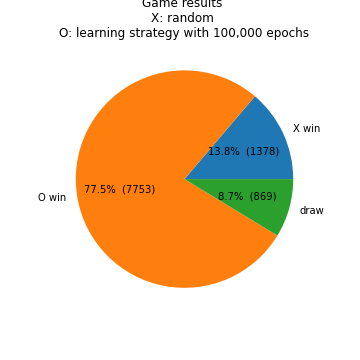
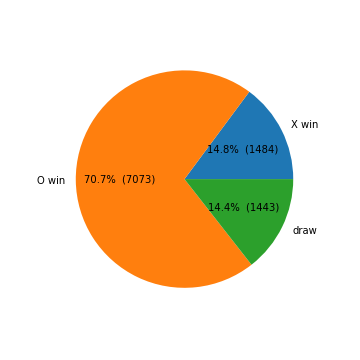
no longer using complicated stats

diff --git a/strategy.py b/strategy.py
@@ -81,7 +81,7 @@ class LearningStrategy(Strategy):
         if learning and self.p.predictive and self.last_state is not None:
             self.last_state.update_max_q_values_of_next_states(state, self.last_action)
 
-        if learning:
+        if learning and random.random() < self.p.random_action_rate:
             action = state.explore(explain=explain)
         else:
             action = state.exploit(explain=explain)
@@ -113,57 +113,25 @@ class State:
         self.total_hits = 0
         self.num_hits = dict([(action, 0) for action in self.allowed_actions])
         self.history = []
-        self.past_learned_values = dict([(action, []) for action in self.allowed_actions])
         self.last_decision_type = None
 
     def explore(self, explain=False):
-        """
-        Choose an action. If the number of hits on any of the possible actions is less than
-        p.min_hits_before_using_stats, a random action is chosen. Else, choose an action based on q-values
-        """
+        """Choose an action at random"""
 
-        if any([hit < self.p.min_hits_before_using_stats for hit in self.num_hits.values()]):
-            action = random.choice(list(self.actions.keys()))
-            if explain:
-                print('Exploring the state:')
-                print(self.pure_state)
-                print('Not enough hits, choosing at random')
-                print('Action to take: {}'.format(action))
-
-        elif random.random() < self.p.random_action_rate:
-            action = random.choice(list(self.actions.keys()))
-            if explain:
-                print('Exploring the state:')
-                print(self.pure_state)
-                print('Enough hits but choosing at random')
-                print('Action to take: {}'.format(action))
-
-        else:
-            # Take a random sample of the past learned q-values for each action. The action corresponding to the
-            # highest sample is chosen. This way, actions with higher q-values get chosen preferentially.
-            random_choices_from_past = dict(
-                [(action, random.choice(past_values[-self.p.max_hits_used_in_stats:])) for action, past_values in
-                 self.past_learned_values.items()])
-            action = max(random_choices_from_past, key=random_choices_from_past.get)
-
-            if explain:
-                print('Exploring the state:')
-                print(self.pure_state)
-                print('Actions: {}'.format(self.actions))
-                print('Hits: {}'.format(self.num_hits))
-                print('Random samples chosen: {}'.format(random_choices_from_past))
-                print('Action to take: {}'.format(action))
-                plt.hist([self.past_learned_values[action_][-self.p.max_hits_used_in_stats:] for action_ in
-                          self.allowed_actions], label=self.allowed_actions)
-                plt.legend()
-                plt.show()
-
+        action = random.choice(list(self.actions.keys()))
         self.last_decision_type = 'explore'
+
+        if explain:
+            print('Exploring the state:')
+            print(self.pure_state)
+            print('Choosing at random')
+            print('Action to take: {}'.format(action))
 
         return action
 
     def exploit(self, explain=False):
         """Choose the action with the highest q-value"""
+
         action = max(self.actions, key=self.actions.get)
         self.last_decision_type = 'exploit'
 
@@ -200,8 +168,6 @@ class State:
                                       }))
         if self.p.predictive:
             self.history[-1]['max_q_of_next_state'] = self.max_q_values_of_next_states
-
-        self.past_learned_values[action].append(learned_value)
 
     def update_max_q_values_of_next_states(self, next_state, last_action):
         learned_value = max(next_state.actions.values())

diff --git a/n_and_c_params.py b/n_and_c_params.py
@@ -1,37 +1,27 @@
 from params import Params, StrategyParams
 
 
-p = Params(num_epochs=100000,
+p = Params(num_epochs=10000,
            explain=False,
            learning=True)
 
 # Strategy for x
-sp_learning_x = StrategyParams(start_q=0.3067,
-                               random_action_rate=0.3,
+sp_learning_x = StrategyParams(start_q=0,
+                               random_action_rate=0.4,
                                discount_rate=0.7,
-                               min_hits_before_using_stats=20,
-                               max_hits_used_in_stats=100,
                                next_state_is_predictable=False,
                                predictive=True)
 
 # Strategy for o
-sp_learning_o = StrategyParams(start_q=-0.3067,
-                               random_action_rate=0.3,
+sp_learning_o = StrategyParams(start_q=0,
+                               random_action_rate=0.4,
                                discount_rate=0.7,
-                               min_hits_before_using_stats=20,
-                               max_hits_used_in_stats=100,
                                next_state_is_predictable=False,
                                predictive=True)
-# Start_q has been chosen as such because even with a random strategy, x wins more often than o.
-# If start_q is set at 0 for both players, moves that are good at the start of learning when the play is random (e.g.
-# placing first x in center) get over-valued and other potentially good moves are neglected.
-
 
 # A strategy that only chooses random actions.
 sp_random = StrategyParams(start_q=0,
                            random_action_rate=1,
                            discount_rate=0.7,
-                           min_hits_before_using_stats=1,
-                           max_hits_used_in_stats=1,
                            next_state_is_predictable=False,
                            predictive=True)

diff --git a/params.py b/params.py
@@ -26,14 +26,6 @@ class StrategyParams:
       The larger the factor, more weight will be given to future rewards.
       Set discount_rate = 1 to give equal weight to immediate and future rewards.
 
-    min_hits_before_using_stats: int
-      Moves are chosen according to how successful they were in the past.
-      To ensure good exploration, actions should be chosen randomly for a while before using past actions to decide.
-
-    max_hits_used_in_stats: int
-      We don't want to take the whole history of actions into account when deciding which moves are good,
-      because some will be using out-of-date strategy.
-
     next_state_is_predictable: bool
       Is the next state purely dependent on the action now?
       Should be false if there is randomness in the game, or there is more than one player.
@@ -45,7 +37,5 @@ class StrategyParams:
     start_q: float
     random_action_rate: float
     discount_rate: float
-    min_hits_before_using_stats: int
-    max_hits_used_in_stats: int
     next_state_is_predictable: bool
     predictive: bool
